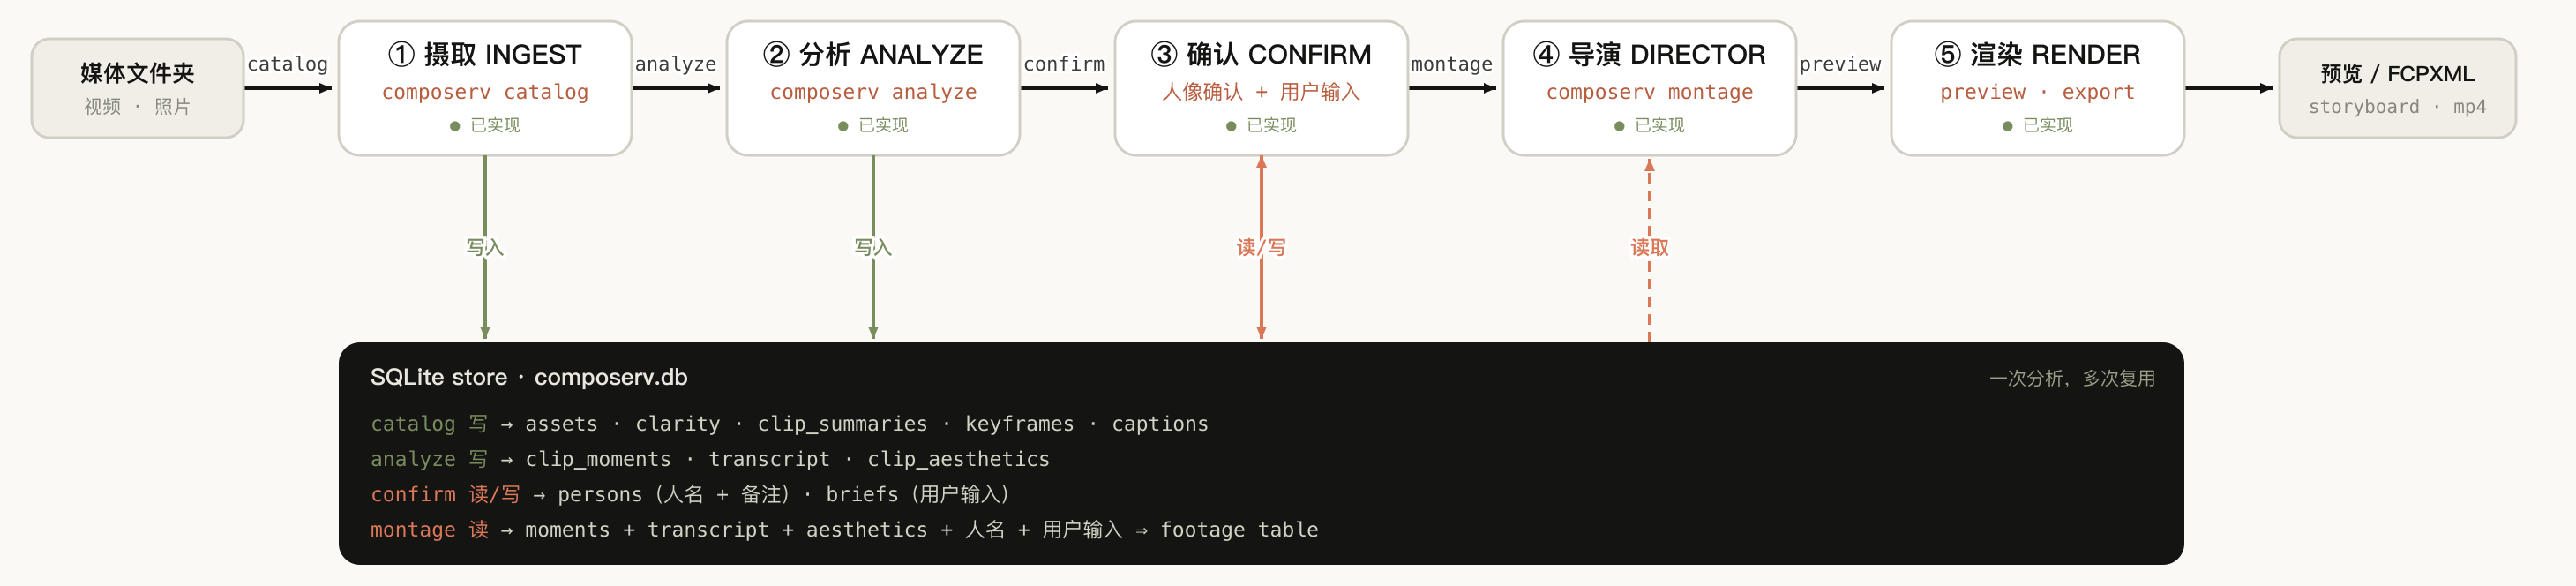
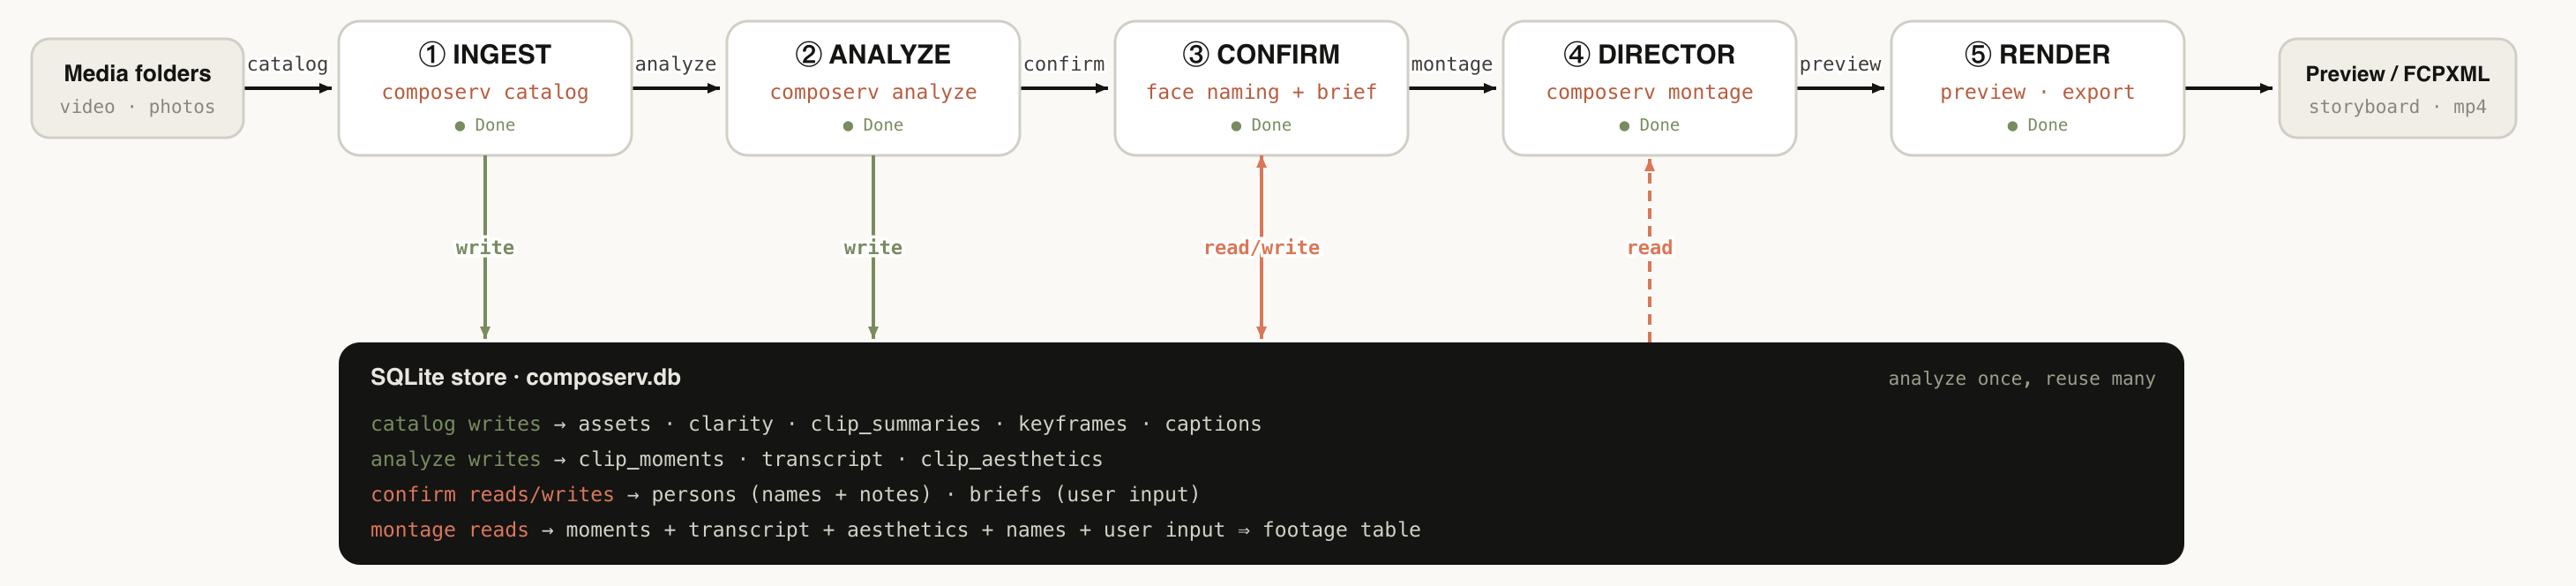
docs(readme): bilingual READMEs with language-matched diagrams
Add README.zh-CN.md (Chinese) alongside README.md (English), cross-linked at the
top. English README now uses an English-labeled architecture diagram
(docs/architecture.png); the Chinese diagram moves to docs/architecture.zh-CN.png
and backs the Chinese README. SVG sources kept beside each PNG for re-export.

diff --git a/README.zh-CN.md b/README.zh-CN.md
@@ -1,0 +1,96 @@
+# composerV
+
+[English](README.md) · **中文**
+
+一个本地优先、以故事为先的助手，把大体量的个人视频档案（GoPro / 手机，几百 GB）
+整理成一个你自己认可的故事，再交给 Final Cut Pro 做后期收尾。
+
+难而有价值的部分是帮你想清楚这个故事，不是搜索，也不是格式转换。故事层以下的
+一切，都是为它服务的。
+
+## 架构总览
+
+![composerV 管线：摄取 → 分析 → 确认 → 导演 → 渲染，全部围绕一个中央 SQLite store](docs/architecture.zh-CN.png)
+
+五个阶段连成一条线，全部围绕一个中央 SQLite **store**（`composerv.db`）运转。慢的
+感知工作（VLM 看画面、Whisper 听声音、on-device 审美打分）**只跑一次并写入
+store**；导演每次**只读这份缓存**，所以出片和改片都快。这张图的可交互版本（点某个
+阶段看它的内部结构）就是项目主页：[`index.html`](index.html)。
+
+## 一句话概括
+
+把视频变成**语义 + 元数据**，让 LLM 帮你*策展*（去重、控制节奏、增加变化、按叙事
+需要挑选），而不只是按属性匹配。你写故事主线，AI 填充每一拍；**零渲染实时预览**
+即时反映每一次改动；锁定的故事编译成 FCPXML 交给 Final Cut。
+
+## 三层架构
+
+- **`index/`**（底层）：扫描 → CFR 720p 代理片 + 抽帧（带真实源 PTS）→ VLM 描述 /
+  物体 / OCR / 景别 / WhisperX 字幕 / insightface 人脸 / GPS+时间 / 情绪+质量信号
+  → SQLite + sqlite-vec + 每片段 sidecar → 一份 LLM 能推理的三层 Archive Brief。
+- **`story/`**（产品本体）：人来写主线（核心立意 + 目标情绪）；AI 提出结构，用按
+  叙事重要性（不是精彩程度）排序的候选片段填充每一拍；`compile(Story) →
+  IntentionList`。
+- **`render/`**（输出）：一份 IntentionList，三个目标：实时 **AVComposition** 预览
+  （零渲染）、手写的 **FCPXML 1.13** 输出器（给 Final Cut）、以及 storyboard /
+  可选的压平分享版。
+
+## 管线阶段与进展
+
+五个阶段连成一条线，`catalog → analyze → confirm → montage → preview`，每个都是一个
+CLI 子命令，读写共享的 store：
+
+| 阶段 | 命令 | 状态 | 做什么 |
+|---|---|---|---|
+| ① 摄取 | `composerv catalog` | ✅ 已实现 | 扫描文件夹 → CFR 720p 代理片 + 关键帧 → 描述 / OCR / 景别 → store |
+| ② 分析 | `composerv analyze` | ✅ 已实现 | 逐帧 VLM moments + WhisperX 字幕 + on-device 审美；**慢，只跑一次，写缓存** |
+| &nbsp;&nbsp;└ 审美打分 | *（analyze 内部）* | ✅ 已实现 | Apple Vision 本地质量 / 情绪打分；只影响 in 点，不影响选镜头 |
+| ③ 确认 | `composerv confirm` | ✅ 已实现 | 人像命名 + 一段用户 brief → `persons` / `briefs`；brief 作为最高优先级的人类指引注入 |
+| ④ 导演 | `composerv montage` | ✅ 已实现 | 对一张文字 **footage table** 做一次 Claude 调用 → 剪辑决策 + 配乐意图 |
+| ⑤ 渲染 | `composerv preview` / `export` | ✅ 已实现 | 零渲染 AVComposition 预览 · FCPXML 1.13 · storyboard / MP4 |
+| &nbsp;&nbsp;└ 自动重构图 | *（render 内部）* | ✅ 已实现 | 把竖拍片段裁剪填满 16:9，跟随主体；旋转过的素材摆正 |
+| 音乐驱动剪辑 | *（方向 3）* | 🔷 规划中 | 两遍重排，让音乐高潮落在最强的镜头上；spec 已评审，10 个任务已规划，未开工 |
+
+配乐选择本身已经能用：导演给出 `MusicIntent`，确定性的 `rank_tracks` 选中曲子，
+片段按节拍网格卡拍。
+
+## 工具链
+
+Python 3.12，用 [uv](https://docs.astral.sh/uv/) 管理。重的 ML / 平台依赖是可选
+extras（`analyze-local`、`analyze-api`、`transcribe`、`faces`、`preview`、`vector`），
+所以核心装起来很轻。
+
+```sh
+uv sync                 # 核心 + 开发依赖
+uv run pytest           # 跑测试
+```
+
+## 不用自己的素材也能试
+
+`composerv demo` 会生成一套全合成的演示素材（测试图样片段，带合成语音和一块可 OCR
+的路牌，外加两首带节拍网格、能量弧不同的音乐），零下载、零许可、不碰任何个人媒体：
+
+```sh
+uv run composerv demo ./composerv-demo
+# 然后按打印出来的 catalog / music index / analyze / montage 命令走
+```
+
+导演（montage）这一步需要 Claude：要么用 `claude` CLI（Claude Code 订阅，装了就
+自动用），要么用 Anthropic API key（`uv sync --extra analyze-api`，然后
+`export ANTHROPIC_API_KEY=...`）。两者都有时，设 `CV_CLAUDE_BACKEND=api` 强制走 API。
+感知（analyze）完全本地运行，两个都不需要。
+
+## 环境变量配置
+
+| 变量 | 默认值 | 含义 |
+|---|---|---|
+| `CV_OUT` | `~/Movies/composerV` | 输出根目录（成片、EDL/FCPXML/storyboard）以及默认 DB 位置 |
+| `CV_MUSIC_DIR` | `~/.composerv/music` | 按 `<feeling>/` 分类的音乐库 |
+| `CV_AESTHETICS_BIN` | 自动编译 | 编译好的 Swift 审美打分器路径 |
+| `CV_CLAUDE_BACKEND` | 装了 CLI 就用 CLI | 设 `api` 强制用 Anthropic API 而非 `claude` CLI |
+| `CV_CLAUDE_PROXY` | 无 | `claude` CLI 调用走的 HTTP(S) 代理 |
+
+## 许可证
+
+MIT（见 `LICENSE`）。运行时下载的 ML 模型有各自的许可证：特别是 insightface 人脸
+模型**仅限非商业研究使用**，商用前请看 `THIRD_PARTY_NOTICES.md`。

diff --git a/README.md b/README.md
@@ -1,5 +1,7 @@
 # composerV
 
+**English** · [中文](README.zh-CN.md)
+
 A local-first, **story-first** assistant for turning a large personal video archive
 (GoPro / phone, hundreds of GB) into a story you believe in, then handing it off to
 Final Cut Pro for finishing.